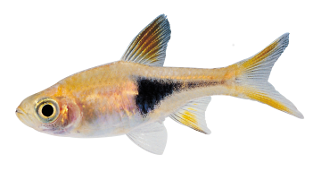
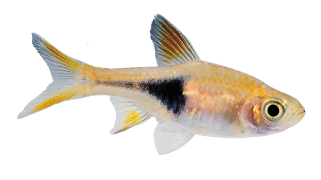
Huge changes, incredibly massive changes

diff --git a/main.js b/main.js
@@ -1,6 +1,6 @@
 // Generated by CoffeeScript 1.6.2
 (function() {
-  var Coral, Fish, FishTankCanvasController, GImage, GInputEvent, GMap, OverlayCanvasController, ViewController, isMobileSafari, tick, viewcontroller,
+  var Coral, Fish, FishTankCanvasController, GImage, GInputEvent, GMap, OverlayCanvasController, Tank, ViewController, isMobileSafari, tick, viewcontroller,
     __slice = [].slice;
 
   Coral = (function() {
@@ -29,12 +29,27 @@
         x: 0,
         y: 0
       };
+      this.direction = {
+        x: Math.random(),
+        y: Math.random()
+      };
     }
 
     Fish.prototype.tick = function() {
-      viewcontroller.renderSprite(this.image, this.position.x, this.position.y, 0.5);
-      this.position.x += (Math.random() - 0.5) * 10;
-      return this.position.y += (Math.random() - 0.5) * 10;
+      var flip;
+
+      flip = this.direction.x < 0;
+      viewcontroller.renderSprite(this.image, this.position.x, this.position.y, 0.5, flip);
+      this.position.x += this.direction.x * 10;
+      this.position.y += this.direction.y * 10;
+      if (this.position.x > viewcontroller.canvas.width - 0.5 * viewcontroller.images[this.image].image.width || this.position.x < 0) {
+        this.direction.x = -this.direction.x;
+        this.direction.y = Math.random() - 0.5;
+      }
+      if (this.position.y > viewcontroller.canvas.height - 0.5 * viewcontroller.images[this.image].image.height || this.position.y < 0) {
+        this.direction.y = -this.direction.y;
+        return this.direction.x = Math.random() - 0.5;
+      }
     };
 
     return Fish;
@@ -44,8 +59,6 @@
   FishTankCanvasController = (function() {
     function FishTankCanvasController() {
       this.relinquishcontrol = false;
-      this.readytofinish = false;
-      this.count = 0;
       this.fishes = [];
       this.fishes.push(new Fish('clown-fish.png'));
       this.fishes.push(new Fish('minnow.png'));
@@ -55,12 +68,14 @@
         x: 200,
         y: 200
       };
+      this.tank = new Tank('TankBackground.jpg');
+      document.tank = this.tank;
     }
 
     FishTankCanvasController.prototype.tick = function() {
       var a, _i, _j, _len, _len1, _ref, _ref1;
 
-      viewcontroller.renderSprite('TankBackground.jpg', 0, 0);
+      this.tank.tick();
       _ref = this.corals;
       for (_i = 0, _len = _ref.length; _i < _len; _i++) {
         a = _ref[_i];
@@ -265,6 +280,28 @@
 
   })();
 
+  Tank = (function() {
+    function Tank(image) {
+      this.image = image;
+      this.temperature = 75;
+      this.salt = 0;
+      this.supply = 100;
+      this.waste = 0;
+      viewcontroller.loadImages(image);
+    }
+
+    Tank.prototype.tick = function() {
+      viewcontroller.renderSprite('TankBackground.jpg', 0, 0, 1.2);
+      $("#tank_supply").css('width', this.supply + '%');
+      $("#tank_salt").css('width', this.salt + '%');
+      $("#tank_waste").css('width', this.waste + '%');
+      return $("#tank_temperature").css('width', ((this.temperature - 45) * (20 / 9)) + '%');
+    };
+
+    return Tank;
+
+  })();
+
   ViewController = (function() {
     function ViewController(selector) {
       var me;
@@ -321,15 +358,26 @@
       return true;
     };
 
-    ViewController.prototype.renderSprite = function(image, x, y, scale) {
+    ViewController.prototype.renderSprite = function(image, x, y, scale, flip) {
       var height, width;
 
       if (scale == null) {
         scale = 1;
       }
+      if (flip == null) {
+        flip = false;
+      }
       width = this.images[image].image.width;
       height = this.images[image].image.height;
-      return this.context.drawImage(this.images[image].image, x, y, width * scale, height * scale);
+      this.context.save();
+      if (flip === true) {
+        this.context.translate(this.canvas.width / 2, 0);
+        this.context.scale(-1, 1);
+        this.context.translate(-this.canvas.width / 2, 0);
+        x = this.canvas.width - x - width * scale;
+      }
+      this.context.drawImage(this.images[image].image, x, y, width * scale, height * scale);
+      return this.context.restore();
     };
 
     ViewController.prototype.imageLoaded = function() {

diff --git a/index.html b/index.html
@@ -29,23 +29,36 @@ $(document).bind('touchmove', false);
       </div>
     </div>
 
+
 <div id=main>
 
-<canvas id="pokeCanvas" width="950" height="875" ></canvas>
+<canvas id="pokeCanvas" width="950" height="475" ></canvas>
+<div class=container>
+
+
+
+<div class="tab-content">
+  <div class="tab-pane active" id="home">
+  	<h3>Temperature</h3>
+  	<div class="progress progress-danger progress-striped">
+	  <div class="bar" id=tank_temperature style="width: 80%"></div>
+	</div>
+	<h3>Waste</h3>
+  	<div class="progress progress progress-striped">
+	  <div class="bar" id=tank_waste style="width: 80%"></div>
+	</div>
+	<h3>Salt</h3>
+  	<div class="progress progress progress-striped">
+	  <div class="bar" id=tank_salt style="width: 80%"></div>
+	</div>
+	<h3>Supply</h3>
+  	<div class="progress progress progress-striped">
+	  <div class="bar" id=tank_supply style="width: 80%"></div>
+	</div>
+
+  </div>
 </div>
 
-<div class="modal hide fade">
-  <div class="modal-header">
-    <button type="button" class="close" data-dismiss="modal" aria-hidden="true">&times;</button>
-    <h3>Modal header</h3>
-  </div>
-  <div class="modal-body">
-    <p>One fine body…</p>
-  </div>
-  <div class="modal-footer">
-    <a href="#" class="btn">Close</a>
-    <a href="#" class="btn btn-primary">Save changes</a>
-  </div>
 </div>
 
 

diff --git a/coffee/classes/fish.js b/coffee/classes/fish.js
@@ -9,12 +9,27 @@ Fish = (function() {
       x: 0,
       y: 0
     };
+    this.direction = {
+      x: Math.random(),
+      y: Math.random()
+    };
   }
 
   Fish.prototype.tick = function() {
-    viewcontroller.renderSprite(this.image, this.position.x, this.position.y, 0.5);
-    this.position.x += (Math.random() - 0.5) * 10;
-    return this.position.y += (Math.random() - 0.5) * 10;
+    var flip;
+
+    flip = this.direction.x < 0;
+    viewcontroller.renderSprite(this.image, this.position.x, this.position.y, 0.5, flip);
+    this.position.x += this.direction.x * 10;
+    this.position.y += this.direction.y * 10;
+    if (this.position.x > viewcontroller.canvas.width - 0.5 * viewcontroller.images[this.image].image.width || this.position.x < 0) {
+      this.direction.x = -this.direction.x;
+      this.direction.y = Math.random() - 0.5;
+    }
+    if (this.position.y > viewcontroller.canvas.height - 0.5 * viewcontroller.images[this.image].image.height || this.position.y < 0) {
+      this.direction.y = -this.direction.y;
+      return this.direction.x = Math.random() - 0.5;
+    }
   };
 
   return Fish;

diff --git a/coffee/classes/viewcontroller.js b/coffee/classes/viewcontroller.js
@@ -58,15 +58,26 @@ ViewController = (function() {
     return true;
   };
 
-  ViewController.prototype.renderSprite = function(image, x, y, scale) {
+  ViewController.prototype.renderSprite = function(image, x, y, scale, flip) {
     var height, width;
 
     if (scale == null) {
       scale = 1;
     }
+    if (flip == null) {
+      flip = false;
+    }
     width = this.images[image].image.width;
     height = this.images[image].image.height;
-    return this.context.drawImage(this.images[image].image, x, y, width * scale, height * scale);
+    this.context.save();
+    if (flip === true) {
+      this.context.translate(this.canvas.width / 2, 0);
+      this.context.scale(-1, 1);
+      this.context.translate(-this.canvas.width / 2, 0);
+      x = this.canvas.width - x - width * scale;
+    }
+    this.context.drawImage(this.images[image].image, x, y, width * scale, height * scale);
+    return this.context.restore();
   };
 
   ViewController.prototype.imageLoaded = function() {

diff --git a/coffee/classes/fishtank.js b/coffee/classes/fishtank.js
@@ -4,8 +4,6 @@ var FishTankCanvasController;
 FishTankCanvasController = (function() {
   function FishTankCanvasController() {
     this.relinquishcontrol = false;
-    this.readytofinish = false;
-    this.count = 0;
     this.fishes = [];
     this.fishes.push(new Fish('clown-fish.png'));
     this.fishes.push(new Fish('minnow.png'));
@@ -15,12 +13,14 @@ FishTankCanvasController = (function() {
       x: 200,
       y: 200
     };
+    this.tank = new Tank('TankBackground.jpg');
+    document.tank = this.tank;
   }
 
   FishTankCanvasController.prototype.tick = function() {
     var a, _i, _j, _len, _len1, _ref, _ref1;
 
-    viewcontroller.renderSprite('TankBackground.jpg', 0, 0);
+    this.tank.tick();
     _ref = this.corals;
     for (_i = 0, _len = _ref.length; _i < _len; _i++) {
       a = _ref[_i];
